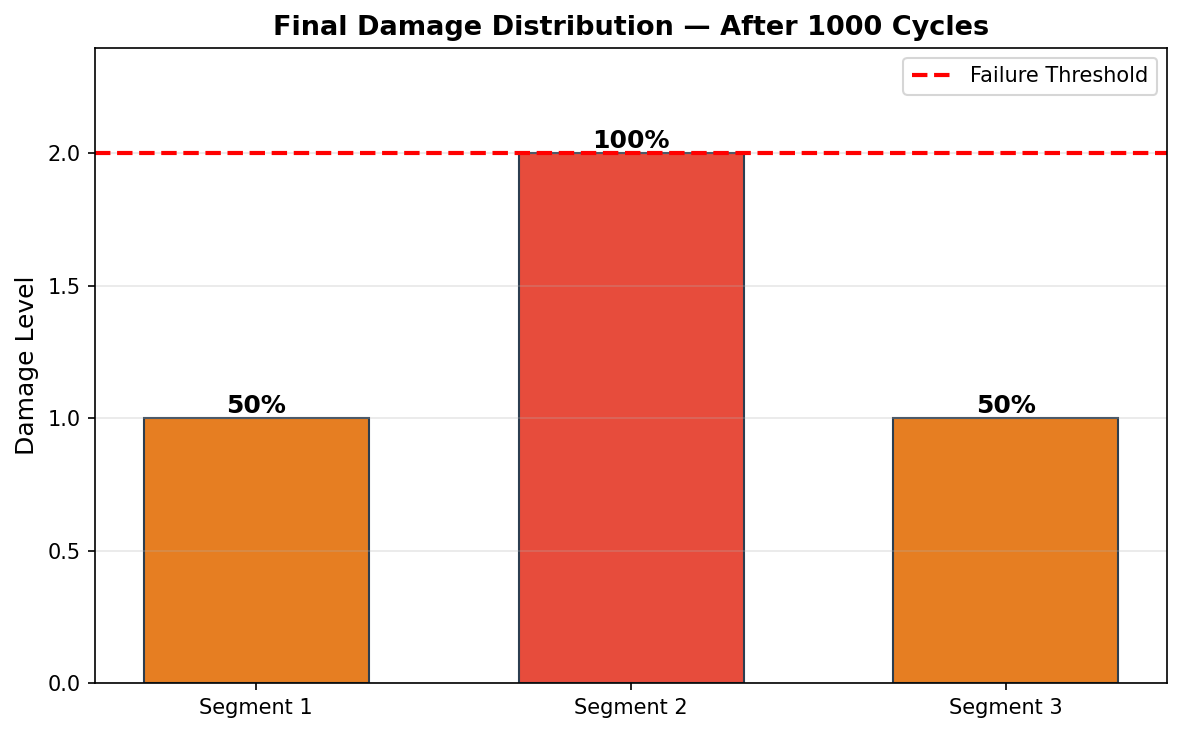
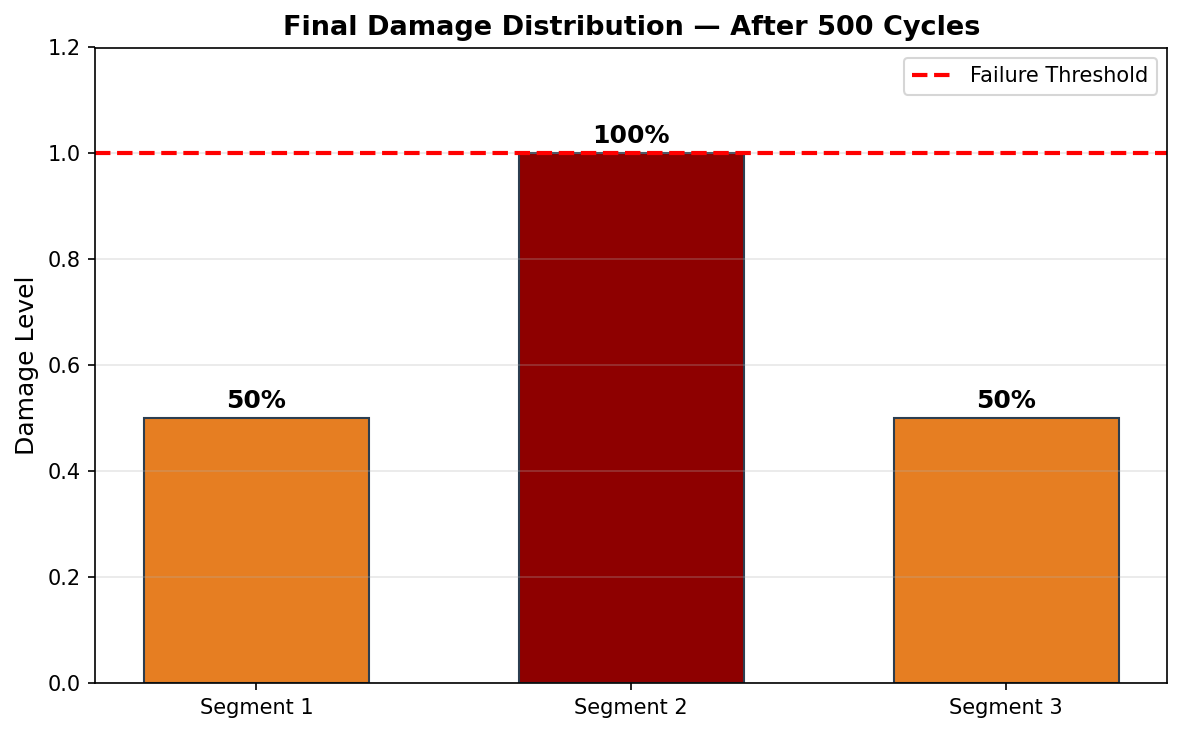
Elaborate cycle explanation + detailed future recommendations 1-3 with defense speaking scripts

diff --git a/DEFENSE_100_PERCENT.md b/DEFENSE_100_PERCENT.md
@@ -169,7 +169,24 @@ Our simulation follows the standard simulation modeling pattern:
 | `segment_factors` | [0.5, 1.0, 0.5] | How vulnerable each segment is (Left, Center, Right) |
 | `num_segments` | 3 (fixed) | Number of beam segments (Left, Center, Right) |
 
-## 3.3 The Simulation Formula
+## 3.3 What Is a "Cycle"?
+
+A **cycle** represents **one repetition of a load being applied to the bridge** — in simple terms, **one truck or vehicle passing over the bridge**.
+
+- **Cycle 1** = The 1st truck crosses the bridge → a tiny amount of fatigue damage is added to each segment
+- **Cycle 100** = The 100th truck has now crossed → damage has been slowly building up over 100 repeated loads
+- **Cycle 500** = The 500th truck crosses → the center segment's accumulated fatigue reaches 100% → **simulation stops**
+
+The simulation stops **not because the bridge broke on that one cycle**, but because the **total accumulated fatigue from all previous cycles combined** has consumed the bridge's full fatigue capacity. It is the sum of 500 small damages — not a single catastrophic event.
+
+**Analogy:** Imagine bending a paperclip back and forth. Each bend is one "cycle." The first bend does nothing visible. The second bend does nothing visible. But if you keep bending, after many cycles, the metal weakens and eventually snaps. The **cycle count** tells you how many bends (loads) it took for the total accumulated fatigue to reach the limit.
+
+**Why the simulation stops at a specific cycle:**
+- The formula calculates: $N_f = \frac{\text{failure\_threshold}}{\text{damage\_increment} \times \max(\text{segment\_factors})}$
+- With defaults: $N_f = \frac{1.0}{0.002 \times 1.0} = 500$ cycles
+- This means it takes exactly 500 repeated loads for the most vulnerable segment (center) to reach its full fatigue capacity
+
+## 3.4 The Simulation Formula
 
 ```
 damage += damage_increment × segment_factor
@@ -181,7 +198,7 @@ Each cycle, every segment gets damaged. The amount of damage depends on:
 
 **If damage ≥ failure_threshold → that segment has reached full fatigue capacity → simulation stops.**
 
-## 3.4 Execution Results (Default Parameters)
+## 3.5 Execution Results (Default Parameters)
 
 With default settings (`damage_increment = 0.002`, `failure_threshold = 1.0`, `factors = [0.5, 1.0, 0.5]`):
 
@@ -195,7 +212,7 @@ With default settings (`damage_increment = 0.002`, `failure_threshold = 1.0`, `f
 
 **Result:** Center segment reaches the failure threshold at exactly **cycle 500**. Left and Right segments are at 50% accumulated fatigue.
 
-## 3.5 Output Files Generated
+## 3.6 Output Files Generated
 
 | File | Description |
 |------|-------------|
@@ -664,6 +681,88 @@ Based on the complete analysis of 5 replication runs, we offer the following rec
 | 4 | **Export data to CSV for external analysis** | Currently, results are only shown visually and printed to the console. Exporting raw data to CSV would allow analysis in spreadsheet software (Excel) or statistical tools (Python pandas). |
 | 5 | **Add a comparative multi-run view** | The current simulation shows one run at a time. A side-by-side comparison view showing damage curves from multiple runs overlaid on the same chart would make cross-run analysis much easier. |
 
+### DETAILED ELABORATION: Future Recommendations 1–3
+
+---
+
+### Future Recommendation 1: Add Variable Loading (Random Traffic)
+
+**The Problem with the Current Model:**
+Right now, every single cycle in our simulation applies the **exact same amount of damage**. Every truck that crosses the bridge is treated as if it weighs exactly the same. But in real life, this is not true — a motorcycle, a sedan, a delivery van, and a fully loaded 18-wheeler all put very different amounts of stress on a bridge. Some cycles should cause more damage, and some should cause less.
+
+**What Would Change:**
+Instead of using a fixed `damage_increment = 0.002` for every cycle, we would generate a **random value** for each cycle. For example, using a normal distribution centered around 0.002 with some spread:
+
+```
+Cycle 1: damage_increment = 0.0018 (lighter vehicle)
+Cycle 2: damage_increment = 0.0031 (heavier truck)
+Cycle 3: damage_increment = 0.0009 (motorcycle)
+Cycle 4: damage_increment = 0.0025 (delivery van)
+... and so on, different every cycle
+```
+
+**Why This Matters:**
+With random loading, the simulation becomes **stochastic** — running the same configuration twice would give **different results** each time. This means we would need to run 20–30 replications of the same configuration and calculate **averages and confidence intervals**. The center segment might reach the threshold at cycle 487 in one run, cycle 512 in another, and cycle 495 in another. The average would be around 500, but with natural variation — just like real life.
+
+**Defense Speaking Script for Recommendation 1:**
+> "My first future recommendation is to add variable loading, meaning random traffic. Right now, every cycle in my simulation applies the exact same damage — as if every vehicle that crosses the bridge weighs exactly the same. But in real life, a motorcycle puts less stress on the bridge than a fully loaded truck. So if I were to improve this simulation, I would make the damage per cycle random — sometimes higher for heavy trucks, sometimes lower for lighter vehicles. This would make the model stochastic, meaning each run would give slightly different results. That would require me to run 20 to 30 replications of the same configuration and calculate averages and confidence intervals, which is how real-world simulation studies are done."
+
+---
+
+### Future Recommendation 2: Add More Than 3 Segments
+
+**The Problem with the Current Model:**
+Our bridge beam is divided into only 3 segments: Left, Center, and Right. This is a simplified view. In reality, a bridge beam can be divided into many more sections — 5, 10, 20, or even 100 smaller segments. With only 3 segments, we get a very coarse picture of how damage is distributed along the beam. We know the center is worst, but we don't know exactly where the transition happens.
+
+**What Would Change:**
+With more segments (for example, 10 segments), the bridge would look like this:
+
+```
+3 segments:  [  Left  |  Center  |  Right  ]
+10 segments: [1|2|3|4|5|6|7|8|9|10]
+```
+
+Each of the 10 segments would have its own factor based on the bending moment distribution. The center segments (5 and 6) would have the highest factors, and the edge segments (1 and 10) would have the lowest. This gives a much smoother, more realistic picture of how fatigue is distributed along the bridge.
+
+**Why This Matters:**
+With higher resolution, we can pinpoint more precisely where the most critical fatigue zone is. Instead of saying "the center third is most damaged," we could say "segments 4 through 7 are in the critical zone, with segment 5 having the highest damage." This is more useful for real-world bridge inspection — engineers need to know exactly WHERE to look for fatigue damage, not just a general area.
+
+**Defense Speaking Script for Recommendation 2:**
+> "My second recommendation is to add more segments. Currently, the bridge is divided into just 3 parts — Left, Center, and Right. This gives us a general idea of where damage is worst, but it's a very coarse view. In a real bridge, engineers would want higher resolution — maybe 10 or 20 segments — so they can see exactly where the damage transitions from safe to critical. For example, with 10 segments, each one would have its own vulnerability factor based on the bending moment curve, and we could pinpoint the exact zone that needs inspection. The current 3-segment model is good for demonstrating the concept, but more segments would make the simulation more useful for actual engineering analysis."
+
+---
+
+### Future Recommendation 3: Add Non-Linear Damage Accumulation
+
+**The Problem with the Current Model:**
+Our simulation uses **Miner's Rule**, which says damage accumulates in a straight line — every cycle adds the same amount of damage, from the first cycle to the last. The damage at cycle 250 is exactly half the damage at cycle 500. This is a useful simplification, but it does not match how fatigue actually works in real materials.
+
+**What Really Happens in Real Materials:**
+In real-world fatigue, damage does **not** grow at a constant rate. Instead:
+- **Early cycles (0–70% life):** Damage accumulates slowly. Tiny micro-cracks form but don't grow much.
+- **Late cycles (70–90% life):** Damage starts to accelerate. Cracks connect and grow faster.
+- **Final cycles (90–100% life):** Damage accelerates rapidly. The material weakens significantly and fatigue progresses very quickly to the threshold.
+
+This looks like an **S-curve or exponential curve** instead of a straight line:
+
+```
+Linear (our model):      Non-linear (real world):
+Damage                    Damage
+|        /                |           __/
+|      /                  |         /
+|    /                    |       /
+|  /                      |     _/
+|/_________ Cycles        |___/_______ Cycles
+```
+
+**Why This Matters:**
+With linear damage, the simulation gives equal warning at every stage — the jump from 40% to 50% looks the same as the jump from 90% to 100%. But in reality, that last 10% is the most dangerous because damage is accelerating. A non-linear model would show that the bridge spends a long time looking "fine" and then deteriorates rapidly near the end — which is exactly why real-world fatigue failures are so dangerous and unexpected.
+
+**Defense Speaking Script for Recommendation 3:**
+> "My third recommendation is to add non-linear damage accumulation. Right now, my simulation uses Miner's Rule, which says damage grows in a straight line — every cycle adds the same amount. This is mathematically clean and easy to validate, which is why I chose it for this project. But in real life, fatigue does not work that way. In real materials, damage starts slowly — tiny micro-cracks form but don't grow much in the early cycles. Then, as the material weakens, the cracks start connecting and growing faster. Near the end of the structure's life, damage accelerates rapidly. So the bridge might look fine for 80 percent of its life, and then deteriorate very quickly in the last 20 percent. This is actually why real-world fatigue failures are so dangerous — the structure looks normal until it suddenly isn't. Adding a non-linear damage model, like an exponential or S-curve, would capture this behavior and make the simulation more realistic."
+
+---
+
 ## 11.3 Why 5 Replication Runs is Sufficient
 
 For this simulation, **5 replication runs is recommended and sufficient** because:
@@ -847,26 +946,27 @@ Below are all slides for the **100% final defense**, including the new slides fo
 
 ---
 
-## SLIDE 11: Recommendations
+## SLIDE 11: Recommendations (Future Improvements)
 
 **On the Slide:**
 
-**For using this simulation:**
-1. Start with default parameters as a baseline
-2. Change only one parameter at a time
-3. Use the Retry feature for quick experimentation
-4. Run at least 3–5 different configurations
-5. Keep damage_increment between 0.001 and 0.01
+**Future Recommendation 1: Add Variable Loading (Random Traffic)**
+- Current model: every cycle = same damage (constant load)
+- Improvement: randomize damage per cycle (some trucks heavier, some lighter)
+- Effect: model becomes stochastic → need 20–30 runs per config for averages
 
-**For future improvements:**
-1. Add random/variable loading (stochastic model)
-2. Add more segments for higher resolution
-3. Add non-linear damage acceleration
-4. Export data to CSV for spreadsheet analysis
-5. Add comparative multi-run overlay view
+**Future Recommendation 2: Add More Than 3 Segments**
+- Current model: 3 segments (Left, Center, Right)
+- Improvement: 10–20 segments for finer resolution
+- Effect: can pinpoint exact fatigue zones, not just general areas
+
+**Future Recommendation 3: Add Non-Linear Damage**
+- Current model: linear damage (Miner's Rule — straight line)
+- Improvement: exponential/S-curve damage (slow early, fast late)
+- Effect: captures real-world behavior where damage accelerates near end-of-life
 
 **Speaking Script:**
-> "Based on my analysis, I have recommendations for two areas. For using the simulation: always start with defaults first, change one parameter at a time so you can isolate the effect, use the Retry feature to quickly test different configurations, and run at least 3 to 5 different scenarios. For future improvements: adding random traffic loading would make the model more realistic, adding more segments would give higher resolution, non-linear damage would be more accurate near the end of life, exporting to CSV would let you analyze data in Excel, and a comparative view would let you see multiple runs side by side."
+> "I have three main future recommendations. First, add variable loading — right now every cycle applies the same damage, as if every vehicle weighs the same. In real life, a motorcycle puts less stress than a heavy truck. Making the load random would require statistical analysis with 20 to 30 runs per configuration. Second, add more segments — currently I have 3 segments which gives a general view, but 10 or 20 segments would let us pinpoint exact fatigue zones for bridge inspection. Third, add non-linear damage — my model uses Miner's Rule where damage grows in a straight line, but in real materials, fatigue starts slow and accelerates near the end. The bridge can look fine for 80 percent of its life and then deteriorate rapidly — that's why fatigue is so dangerous. A non-linear model would capture this."
 
 ---
 